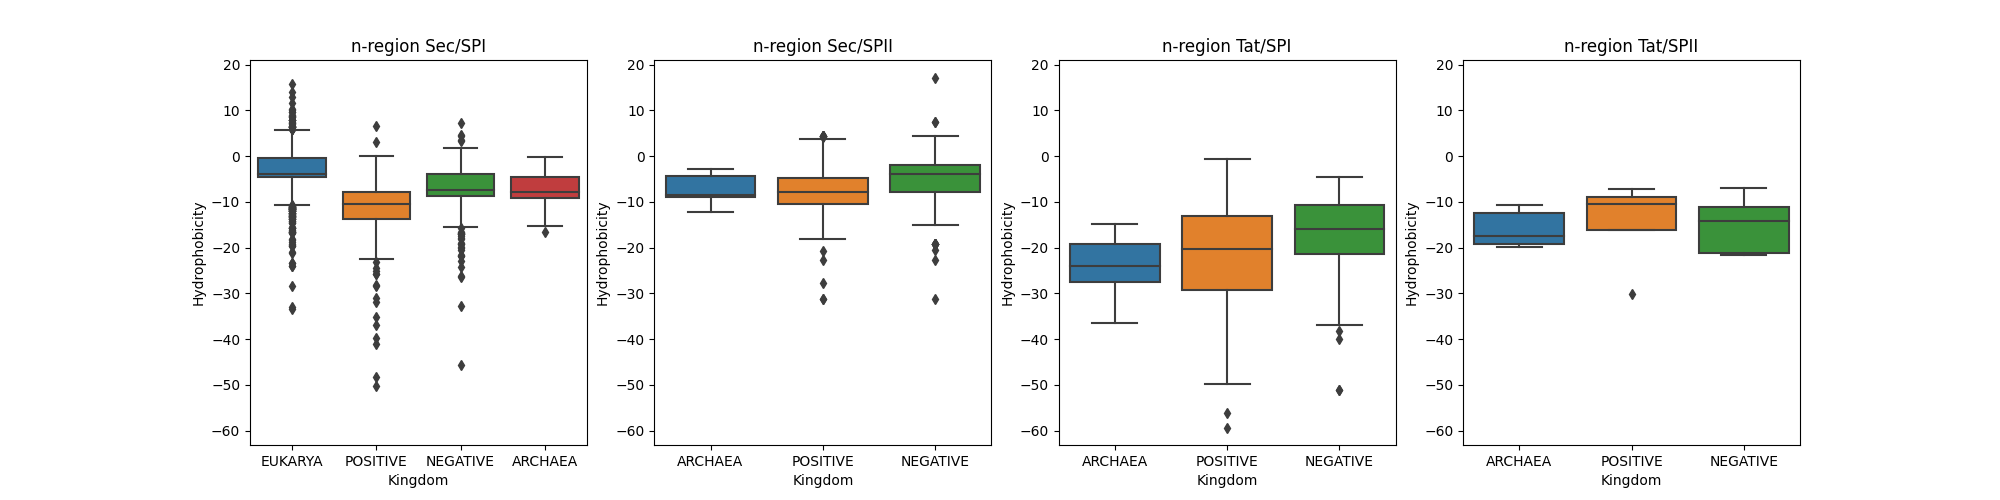
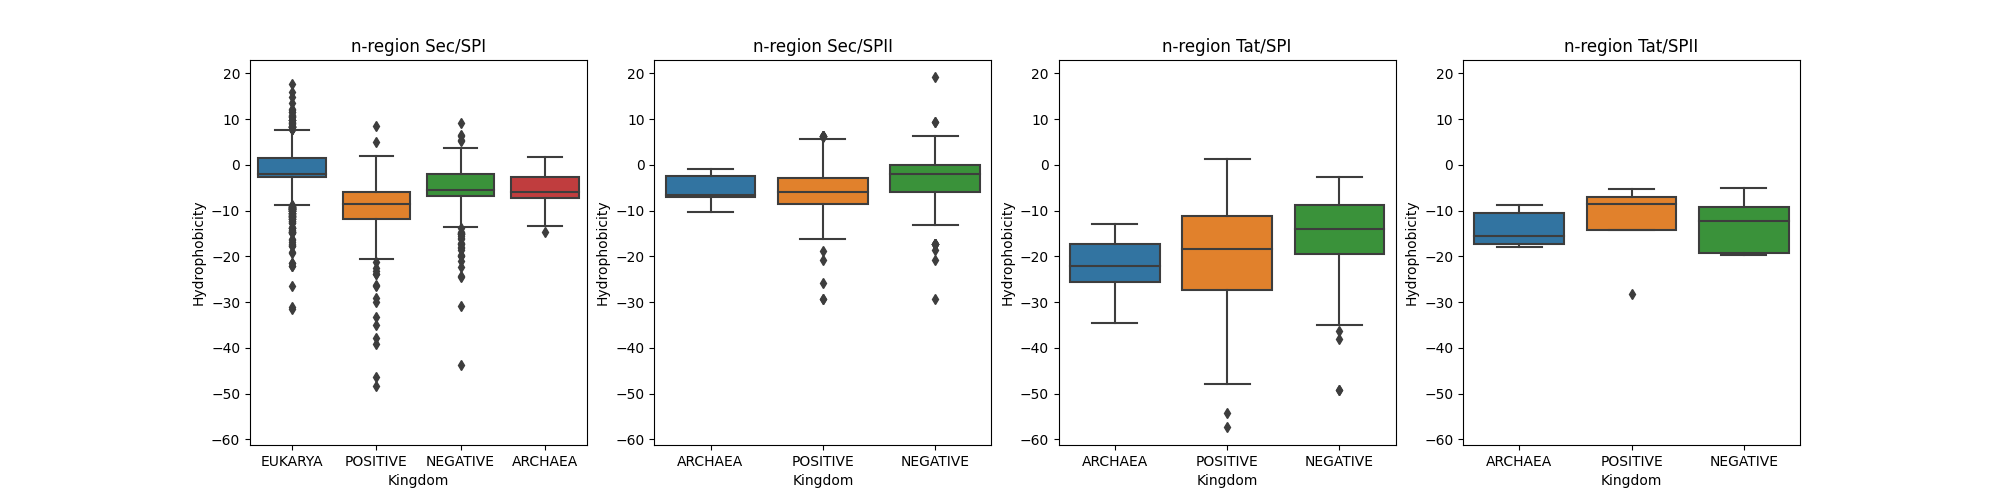
removed skipping of n-region Met in distributions This was only needed for regularization, not analysis

diff --git a/sp_prediction_experiments/signalp_6_evaluation_scripts/make_figures.py b/sp_prediction_experiments/signalp_6_evaluation_scripts/make_figures.py
@@ -48,15 +48,15 @@ def get_c_len(token_ids):
 aas = {'A':0,  'R':1,  'N':2,  'D':3,  'C':4,  'Q':5,  'E':6,  'G':7,  'H':8,  'I':9, 
       'L':10, 'K':11 ,'M':12, 'F':13, 'P':14, 'S':15, 'T':16, 'W':17, 'Y':18, 'V':19}
 
-def count_aas(sequence, token_ids):
+def count_aas(sequence, token_ids, skip_n_methionine=False):
     
     sequence = np.array([aas[x] for x in sequence])
     #count aas in n
     sp_pos = np.where(np.isin(token_ids, [3,9,16,23]))[0]
     if len(sp_pos)>0:
-        start = sp_pos.min()
+        start = 1 if skip_n_methionine else sp_pos.min()
         end = sp_pos.max() +1
-        region_aas = sequence[1:end]
+        region_aas = sequence[start:end]
         aas_n =  np.bincount(region_aas, minlength = 20)
     else:
         aas_n = np.zeros(20)
